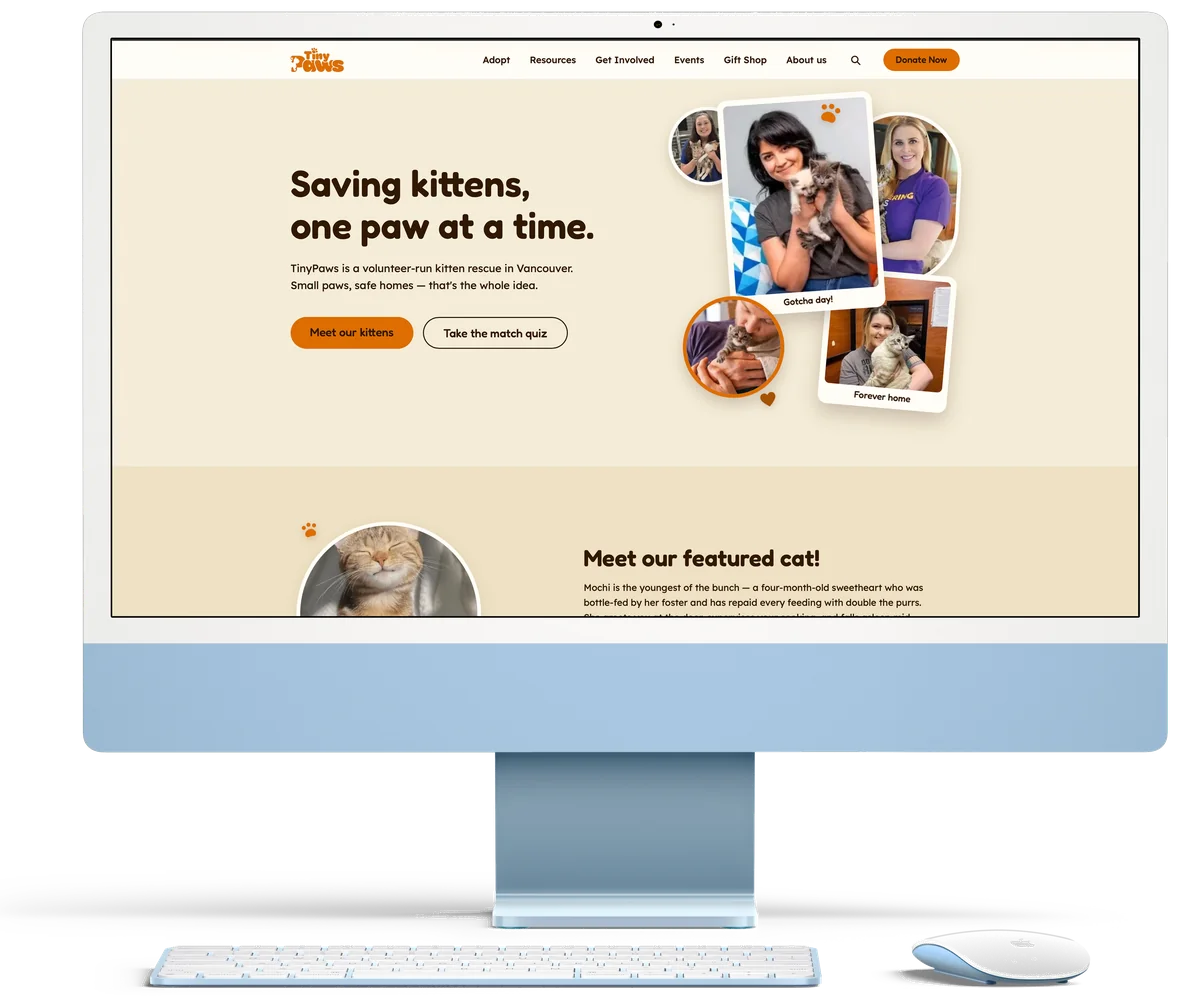
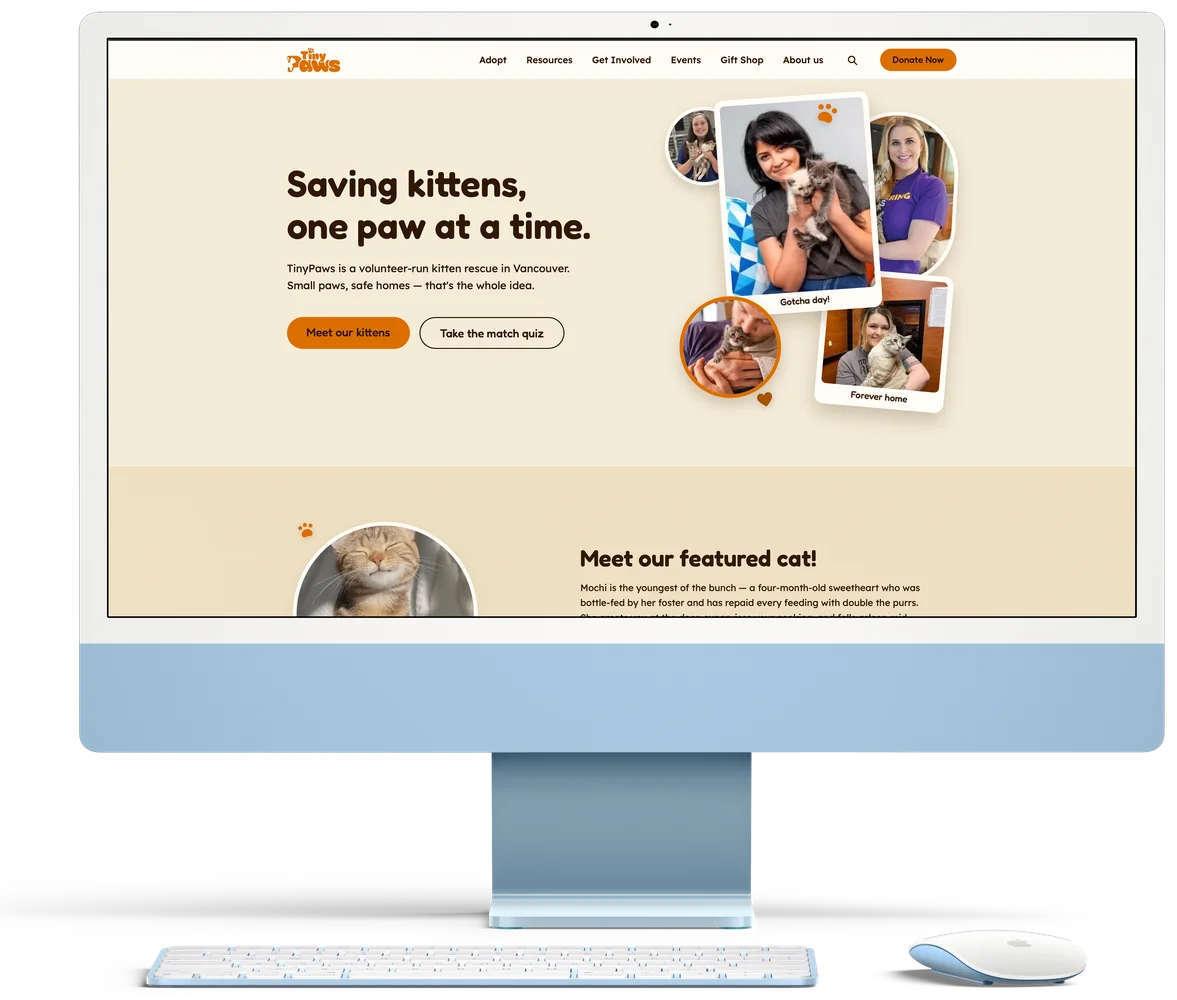
Work: the TinyPaws render from its PNG
The latest TinyPaws upload is a PNG with alpha, so the card's picture is
cut from that as the other three are, and the keyed JPEG and its key go.
The iMac mockup JPEG uploaded with it is kept under originals/.

diff --git a/site/src/data/projects/tinypaws.js b/site/src/data/projects/tinypaws.js
@@ -10,11 +10,9 @@ export default {
   /* The Work card's device: the render of the rescue's site on an iMac,
      with its keyboard and mouse, the screen in it already; `ratio` is the
      picture's. Wide, so it lies above the copy rather than beside it (see
-     .mock-above in work.css). Cut from originals/public/media/
-     tinypawsthum.jpg to 1000 tall — a JPEG on white, so the ground was
-     keyed out: the white connected to the border, and the shadow's grey
-     turned into transparency at its own strength. */
-  mockups: [{ image: cardThumb, ratio: [1180, 1000] }],
+     .mock-above in work.css). Cut from originals/tinypawsthum.png to 1000
+     tall. */
+  mockups: [{ image: cardThumb, ratio: [1177, 1000] }],
   mockupPlace: "above",
   thumbAlt: {
     en: "The TinyPaws site on an iMac: the kitten rescue's landing page",
